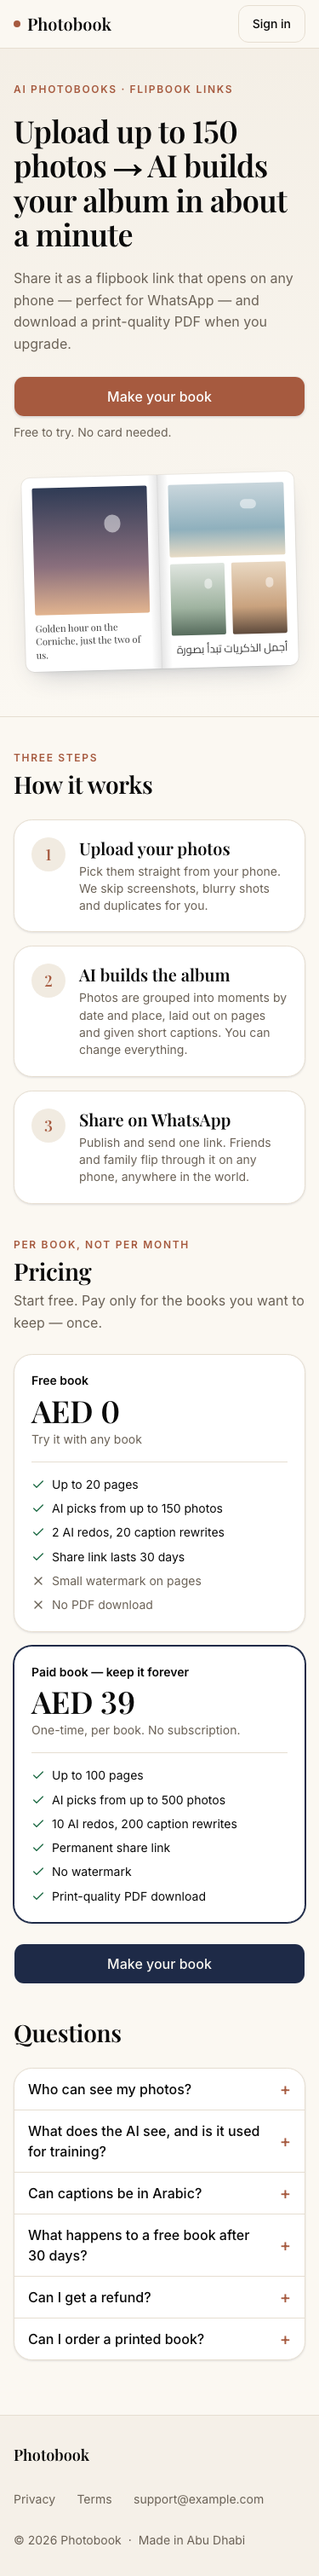
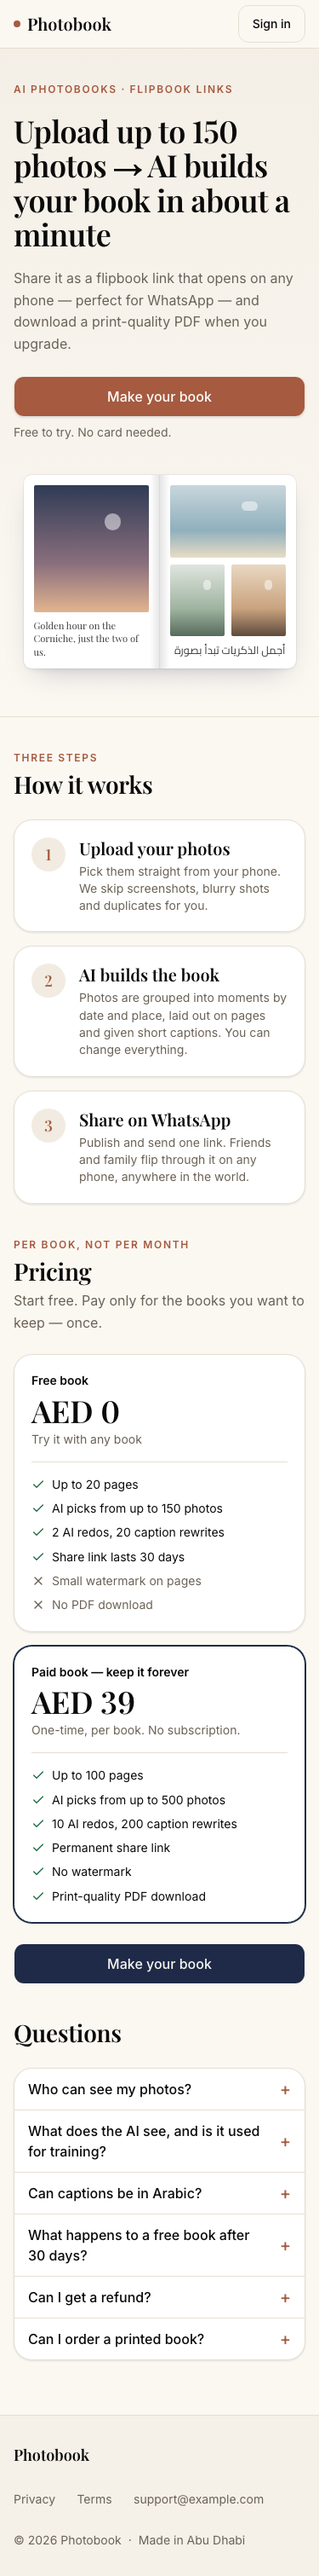
M13: cosmetic — setup card spacing, Arabic editor header alignment, landing says 'book'

diff --git a/src/lib/marketing/copy.ts b/src/lib/marketing/copy.ts
@@ -11,7 +11,7 @@ import { LIMITS } from "@/lib/ai/limits";
 export const BUILD_TIME_CLAIM = "in about a minute";
 
 /** Hero headline — the one claim we make about speed and size (approved in M9 plan). */
-export const HERO_CLAIM = `Upload up to ${LIMITS.free.maxAnalyzedPhotos} photos → AI builds your album ${BUILD_TIME_CLAIM}`;
+export const HERO_CLAIM = `Upload up to ${LIMITS.free.maxAnalyzedPhotos} photos → AI builds your book ${BUILD_TIME_CLAIM}`;
 
 export const HERO_SUBCOPY =
   "Share it as a flipbook link that opens on any phone — perfect for WhatsApp — and download a print-quality PDF when you upgrade.";
@@ -33,7 +33,7 @@ export const HOW_IT_WORKS = [
     text: "Pick them straight from your phone. We skip screenshots, blurry shots and duplicates for you.",
   },
   {
-    title: "AI builds the album",
+    title: "AI builds the book",
     text: "Photos are grouped into moments by date and place, laid out on pages and given short captions. You can change everything.",
   },
   {
@@ -49,7 +49,7 @@ export const HERO_SAMPLE_CAPTION_AR = "أجمل الذكريات تبدأ بصو
 /** SEO title + description for "/". */
 export const LANDING_TITLE = "AI photobooks you share as a link";
 export const LANDING_DESCRIPTION =
-  "Upload your photos, AI builds the album and writes the captions (English or Arabic), and you share it as a flipbook link on WhatsApp. Made in Abu Dhabi.";
+  "Upload your photos, AI builds the book and writes the captions (English or Arabic), and you share it as a flipbook link on WhatsApp. Made in Abu Dhabi.";
 
 /**
  * Text drawn on the static OG card. ASCII only: next/og's bundled font covers basic Latin, and any

diff --git a/src/components/editor/EditorShell.tsx b/src/components/editor/EditorShell.tsx
@@ -200,8 +200,10 @@ export function EditorShell({ data, transport: transportProp, tools: toolsProp, 
             <ArrowLeft className="size-5" aria-hidden="true" />
           </Link>
           <div className="flex min-w-0 flex-1 flex-col leading-tight">
-            <h1 dir="auto" className="truncate font-display text-base font-semibold" data-testid="editor-title">
-              {title}
+            {/* Block stays start-aligned for every script (status line under it); only the text
+                gets dir="auto", so an Arabic title reads RTL without jumping to the far side. */}
+            <h1 className="truncate text-start font-display text-base font-semibold" data-testid="editor-title">
+              <span dir="auto">{title}</span>
             </h1>
             {/* Unpublished edits show on the Share button ("Publish changes", M13 T9). */}
             <SaveStatus status={autosave.status} />

diff --git a/e2e/landing.spec.ts b/e2e/landing.spec.ts
@@ -10,7 +10,7 @@ test.describe("landing page at 375px", () => {
   test("renders hero, CTA and all sections", async ({ page }) => {
     await expect(page).toHaveTitle(/^Photobook — /);
     await expect(page.getByTestId("hero-heading")).toBeVisible();
-    await expect(page.getByTestId("hero-heading")).toContainText("AI builds your album");
+    await expect(page.getByTestId("hero-heading")).toContainText("AI builds your book");
     const cta = page.getByTestId("cta-create");
     await expect(cta).toBeVisible();
     await expect(cta).toHaveText("Make your book");

diff --git a/src/components/upload/SetupCard.tsx b/src/components/upload/SetupCard.tsx
@@ -285,7 +285,7 @@ export function SetupCard({ controller: c, suggestedFormat, aiOn = true }: Setup
         </fieldset>
       </div>
 
-      <p id={ids.status} aria-live="polite" className="type-small min-h-5 text-muted-foreground" data-testid="setup-status">
+      <p id={ids.status} aria-live="polite" className="type-small min-h-5 text-muted-foreground empty:-mt-4 empty:min-h-0" data-testid="setup-status">
         {lockReason ? (
           <span data-testid="setup-locked">{LOCK_COPY[lockReason]}</span>
         ) : status.kind === "saving" ? (

diff --git a/tests/m11-editor-chrome.test.tsx b/tests/m11-editor-chrome.test.tsx
@@ -88,7 +88,7 @@ describe("coach line storage", () => {
     const html = renderToStaticMarkup(<EditorShell data={devEditorData("ok")} transport={devTransport("ok")} />);
     expect(html).not.toContain('data-testid="editor-coach"');
     // Serif editor title keeps dir="auto".
-    expect(html).toMatch(/<h1 dir="auto" class="[^"]*font-display[^"]*" data-testid="editor-title"/);
+    expect(html).toMatch(/<h1 class="[^"]*font-display[^"]*" data-testid="editor-title"><span dir="auto">/);
   });
 });
 

diff --git a/tests/editor-shell.test.tsx b/tests/editor-shell.test.tsx
@@ -43,7 +43,7 @@ describe("EditorShell render smoke", () => {
     const captions = html.match(/<span[^>]*data-testid="page-caption"[^>]*>/g) ?? [];
     expect(captions.length).toBeGreaterThan(0);
     for (const c of captions) expect(c).toContain('dir="auto"');
-    expect(html).toMatch(/<h1 dir="auto"[^>]*data-testid="editor-title"/);
+    expect(html).toMatch(/<h1 [^>]*data-testid="editor-title"><span dir="auto">/);
   });
 
   it("read-only: banner, no tap targets, static captions", () => {

diff --git a/tests/landing.test.tsx b/tests/landing.test.tsx
@@ -30,6 +30,8 @@ describe("landing hero", () => {
   it("headline is the HERO_CLAIM constant and uses the free AI photo limit", () => {
     expect(HERO_CLAIM).toContain(String(LIMITS.free.maxAnalyzedPhotos));
     expect(HERO_CLAIM).toContain(BUILD_TIME_CLAIM);
+    expect(HERO_CLAIM).toContain("AI builds your book");
+    expect(HERO_CLAIM).not.toContain("album");
     expect(html).toContain(esc(HERO_CLAIM));
   });
 
